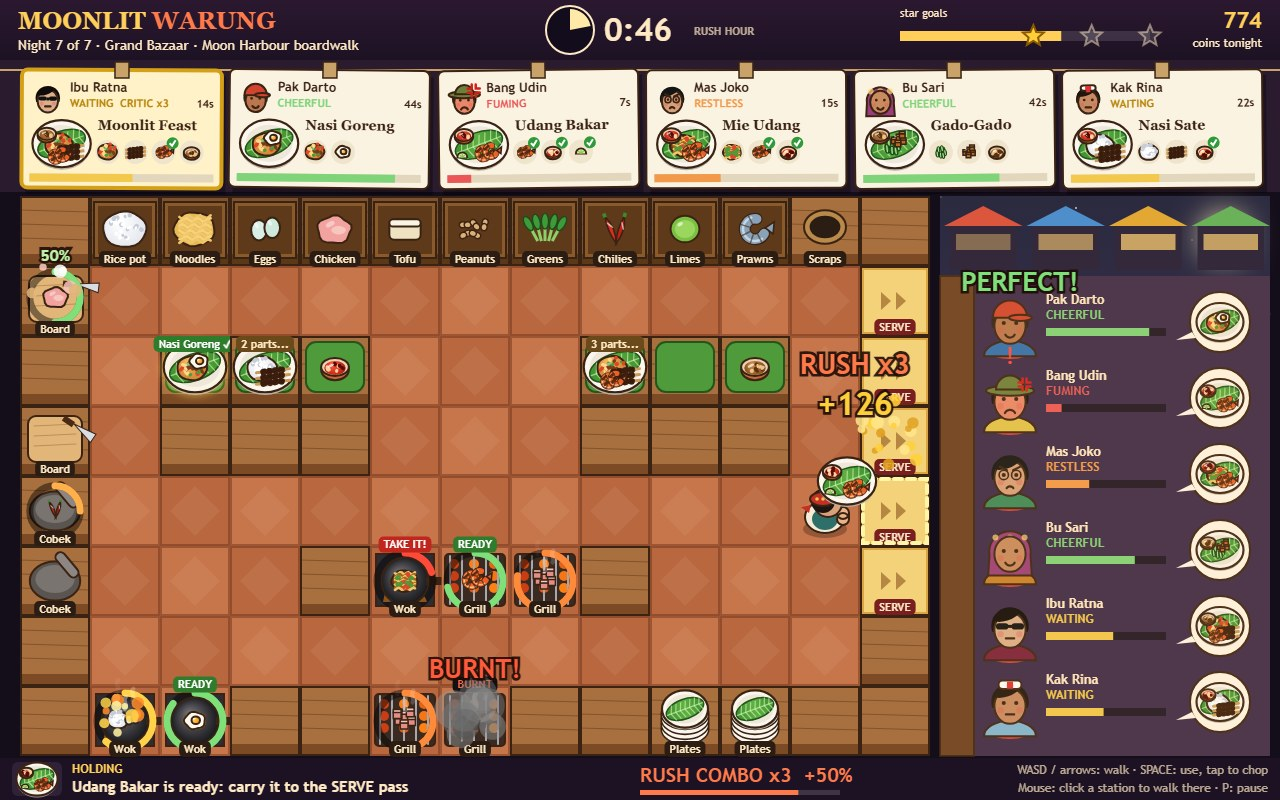
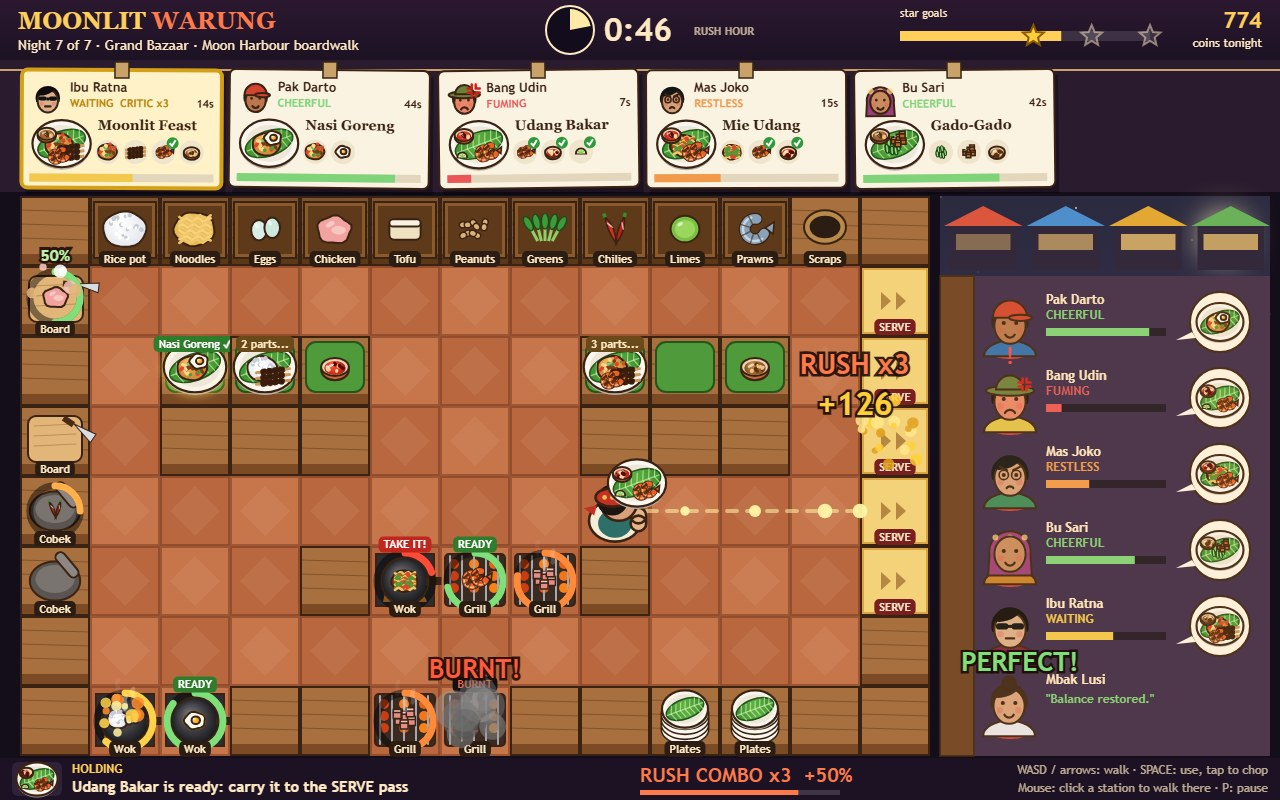
Cover: route preview to the pass, bigger cook, a guest eating; fix bin and pillar reachability; central cooking island on night 7

diff --git a/game/src/scenes/cook-scene.js b/game/src/scenes/cook-scene.js
@@ -86,7 +86,7 @@ export function createCookScene(app, index, opts = {}) {
     const plateParts = run.chef.held?.id === 'plate' ? run.chef.held.parts : [];
     drawTicketRail(ctx, run, t, plateParts);
     drawFloor(ctx, run.k, run.night.dark && Math.sin(t * 7) > 0.9);
-    const target = run.over ? null : targetStation(run.chef, run.k);
+    const target = run.over || run.chef.route.length ? null : targetStation(run.chef, run.k);
     drawStations(ctx, run.k, t, target, run.mods.burnDelay);
     drawRoute(ctx, run.chef, t);
     const p = { x: KITCHEN.x + run.chef.x * KITCHEN.tile, y: KITCHEN.y + run.chef.y * KITCHEN.tile };
@@ -112,11 +112,12 @@ export function createCookScene(app, index, opts = {}) {
 
 function drawRoute(ctx, chef, t) {
   if (!chef.route.length) return;
-  ctx.fillStyle = 'rgba(255,246,168,0.85)';
-  chef.route.forEach((s, i) => {
-    const c = tileCenter(s.c, s.r);
-    ctx.beginPath(); ctx.arc(c.x, c.y, 4 + Math.sin(t * 8 - i) * 1.5, 0, Math.PI * 2); ctx.fill();
-  });
+  const pts = [{ x: KITCHEN.x + chef.x * KITCHEN.tile, y: KITCHEN.y + chef.y * KITCHEN.tile }, ...chef.route.map(s => tileCenter(s.c, s.r))];
+  if (chef.goal) { const g = tileCenter(chef.goal.col, chef.goal.row); const last = pts[pts.length - 1]; pts.push({ x: (last.x + g.x) / 2, y: (last.y + g.y) / 2 }); }
+  ctx.strokeStyle = 'rgba(255,246,168,0.55)'; ctx.lineWidth = 4; ctx.setLineDash([10, 10]); ctx.lineDashOffset = -t * 40;
+  ctx.beginPath(); pts.forEach((p, i) => (i ? ctx.lineTo(p.x, p.y) : ctx.moveTo(p.x, p.y))); ctx.stroke(); ctx.setLineDash([]);
+  ctx.fillStyle = 'rgba(255,246,168,0.95)';
+  pts.slice(1).forEach((c, i) => { ctx.beginPath(); ctx.arc(c.x, c.y, 6 + Math.sin(t * 8 - i) * 1.5, 0, Math.PI * 2); ctx.fill(); });
 }
 
 function hoverTip(ctx, st) {

diff --git a/game/src/shots.js b/game/src/shots.js
@@ -32,7 +32,6 @@ function stageService(app) {
     ['udin', 'udang_bakar', 0.13, 1],
     ['joko', 'mie_udang', 0.36, 2],
     ['sari', 'gado_gado', 0.74, 3],
-    ['rina', 'nasi_sate', 0.48, 5],
   ];
   guests.forEach(([who, recipe, share, seat], i) => {
     const t = spawnTicket(run, { who, recipe, seat });
@@ -52,12 +51,15 @@ function stageService(app) {
   put(run, 4, 2, { item: { id: 'sambal' } });
   put(run, 8, 2, { item: { id: 'plate', parts: ['fried_rice', 'sate', 'grilled_prawn'] } });
   put(run, 10, 2, { item: { id: 'peanut_sauce' } });
-  run.chef.x = 11.5; run.chef.y = 4.5; run.chef.dir = { x: 1, y: 0 };
+  run.chef.x = 8.5; run.chef.y = 4.5; run.chef.dir = { x: 1, y: 0 }; run.chef.moving = true; run.chef.step = 0.5;
+  run.chef.route = [{ c: 9, r: 4 }, { c: 10, r: 4 }, { c: 11, r: 4 }];
+  run.chef.goal = stationAt(run.k, 12, 4);
   run.chef.held = { id: 'plate', parts: ['grilled_prawn', 'sambal', 'lime_wedge'] };
   run.takings = 774; run.combo = 3; run.lastServe = run.time - 2.5; run.rush = true;
   run.stats.served = 14;
   const fx = run.fx;
-  fx.emit('serve', { at: stationAt(run.k, 12, 3), ticket: { seat: 0, who: 'lusi' }, dish: { name: 'Mie Goreng' }, pay: 126, tip: 18, combo: 3, perfect: true, nearMiss: false, secondsLeft: 30 });
+  run.seats[5] = { who: 'lusi', state: 'eating', anim: 2, dish: 'mie_udang' };
+  fx.emit('serve', { at: stationAt(run.k, 12, 3), ticket: { seat: 5, who: 'lusi' }, dish: { name: 'Mie Udang' }, pay: 126, tip: 18, combo: 3, perfect: true, nearMiss: false, secondsLeft: 30 });
   fx.emit('chop', { at: stationAt(run.k, 0, 1), progress: 0.5 });
   fx.emit('sizzle', { at: stationAt(run.k, 1, 7) });
   fx.emit('burnt', { at: stationAt(run.k, 6, 7) });

diff --git a/game/src/art/people-art.js b/game/src/art/people-art.js
@@ -91,6 +91,7 @@ export function drawChef(ctx, chef, x, y, t, holdingDraw) {
   ctx.fillStyle = 'rgba(0,0,0,0.25)'; ctx.beginPath(); ctx.ellipse(x, y + 18, 22, 9, 0, 0, Math.PI * 2); ctx.fill();
   const fx = chef.dir.x, fy = chef.dir.y;
   ctx.translate(x, y + bob);
+  ctx.scale(1.3, 1.3);
   ctx.fillStyle = '#f5ecd8'; ctx.strokeStyle = INK; ctx.lineWidth = 2;
   ctx.beginPath(); ctx.ellipse(0, 6, 20, 16, 0, 0, Math.PI * 2); ctx.fill(); ctx.stroke();
   ctx.fillStyle = '#2f6f6a'; ctx.beginPath(); ctx.ellipse(0, 8, 13, 11, 0, 0, Math.PI * 2); ctx.fill();
